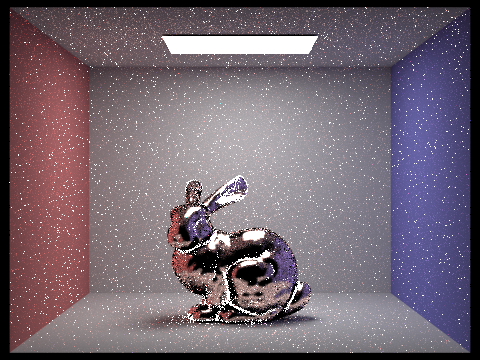
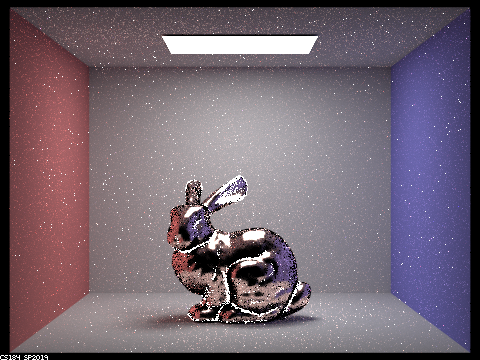
stuck somewhere

diff --git a/src/bsdf.cpp b/src/bsdf.cpp
@@ -69,8 +69,8 @@ Spectrum MicrofacetBSDF::F(const Vector3D& wi) {
 Spectrum MicrofacetBSDF::f(const Vector3D& wo, const Vector3D& wi) {
   // TODO: 2.1
   // Implement microfacet model here
-	Vector3D sum = wo + wi;
-	Vector3D h = sum/sqrt(dot(sum, sum));
+	Vector3D h = wo + wi;
+	h.normalize();
 	Spectrum val = F(wi)*G(wo, wi)*D(h);
 	val = val / (4.*(wo.z)*(wi.z));
 	return val;
@@ -88,6 +88,7 @@ Spectrum MicrofacetBSDF::sample_f(const Vector3D& wo, Vector3D* wi, float* pdf) 
 	float phiH = 2. * PI*r.y;
 	// may be wrong idk
 	Vector3D h = Vector3D(sin(thetaH)*cos(phiH), sin(thetaH)*sin(phiH), cos(thetaH));
+	h.normalize();
 	*wi = 2.*dot(wo, h)*h - wo;
 	if (wo.z > 0 && wi->z > 0) {
 		float ptheta = 2. * sin_theta(h)*exp(-sin_theta(h)*sin_theta(h) / (alpha*alpha*cos_theta(h)*cos_theta(h))) / (alpha*alpha*cos_theta(h)*cos_theta(h)*cos_theta(h));
